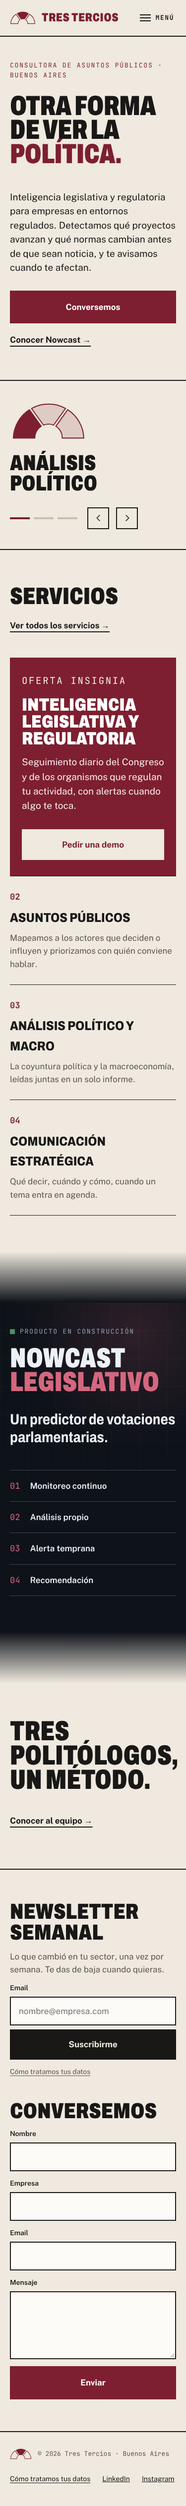
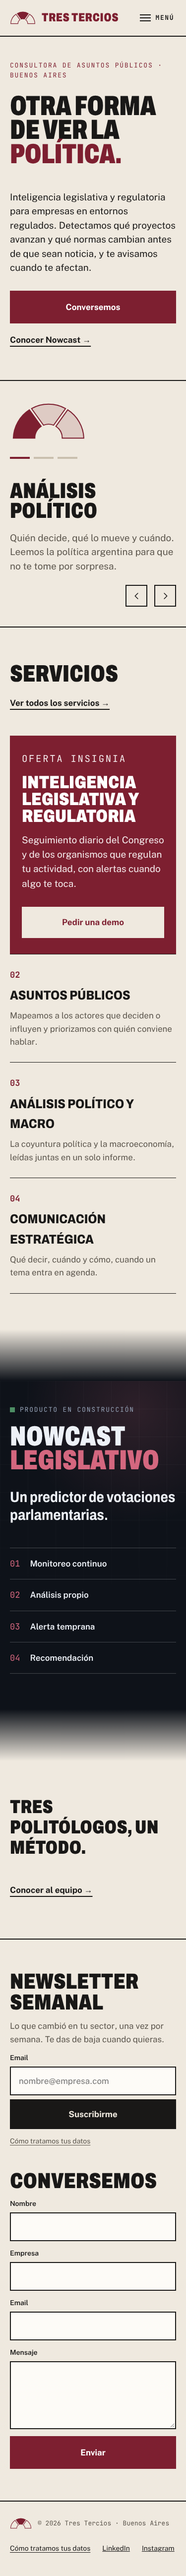
Home: puntos centrados bajo el hemiciclo, «un método.» en bordó y Suscribirme en bordó
Claude-Session: https://claude.ai/code/session_01JqyG6VXhNUZhR4n71w7gic

Changed region(s): [[0.0, 0.0, 1.0, 0.9943], [0.7333, 0.1864, 0.7627, 0.2175]]

diff --git a/_diseno/maquetas/01-home/maqueta.html b/_diseno/maquetas/01-home/maqueta.html
@@ -573,21 +573,22 @@ header{border-bottom:2px solid var(--tinta);background:var(--arena);position:rel
 .hero-pie p{margin:0;flex:1 1 480px;max-width:640px;font-size:21px;line-height:1.5}
 .hero-acciones{display:flex;flex-wrap:wrap;gap:8px 20px;align-items:center}
 
-/* Tres tercios: el logo cambia con la flecha, solo el titular */
+/* Tres tercios: el logo cambia con la flecha; titular y una bajada corta */
 .metodo{border-top:2px solid var(--tinta);border-bottom:2px solid var(--tinta)}
 .metodo .wrap{display:flex;flex-wrap:wrap;align-items:center;gap:32px 72px;padding-block:56px}
 .metodo-logo{flex:0 0 auto;width:min(260px,40vw);color:var(--bordo)}
 .metodo-logo svg{width:100%;height:auto;display:block;transition:opacity 220ms var(--ease)}
 .metodo-cuerpo{flex:1 1 420px;min-width:0}
-.slides{position:relative;min-height:clamp(90px,11vw,150px)}
-.slide{position:absolute;inset:0;margin:0;opacity:0;transform:translateY(10px);transition:opacity 220ms var(--ease),transform 220ms var(--ease);pointer-events:none;display:flex;align-items:center}
+.slides{display:grid}
+.slide{grid-area:1/1;opacity:0;transform:translateY(10px);transition:opacity 220ms var(--ease),transform 220ms var(--ease);pointer-events:none}
 .slide[data-on="1"]{opacity:1;transform:none;pointer-events:auto}
 .slide h2{margin:0;font-family:var(--display);font-stretch:72%;font-weight:900;font-size:clamp(44px,6.6vw,96px);line-height:.92;text-transform:uppercase}
-.car-nav{display:flex;align-items:center;gap:14px;margin-top:24px}
-.dots{display:flex;gap:8px;margin-right:6px}
+.slide p{margin:20px 0 0;max-width:34em;font-size:19px;line-height:1.5;color:var(--muted)}
+.dots{display:flex;gap:8px;margin-top:16px}
 .dots button{width:40px;height:44px;border:0;padding:0;background:transparent;cursor:pointer;display:flex;align-items:center}
 .dots button::before{content:"";display:block;width:100%;height:4px;background:#C9BFAE;transition:background-color 220ms}
 .dots button[aria-selected="true"]::before{background:var(--bordo)}
+.car-flechas{display:flex;gap:14px;margin-left:auto;align-self:flex-end}
 .arrow{width:44px;height:44px;display:grid;place-items:center;border:2px solid var(--tinta);background:transparent;cursor:pointer;transition:background-color 220ms var(--ease)}
 .arrow svg{width:19px;height:19px;fill:none;stroke:var(--tinta);stroke-width:2;stroke-linecap:round;stroke-linejoin:round}
 .arrow:hover{background:var(--bordo);border-color:var(--bordo)}
@@ -630,9 +631,9 @@ header{border-bottom:2px solid var(--tinta);background:var(--arena);position:rel
 
 /* Nosotros: solo la frase y el enlace */
 #equipo{padding-block:96px}
-.frase{margin:0;font-family:var(--display);font-stretch:70%;font-weight:900;font-size:clamp(56px,9vw,136px);line-height:.88;text-transform:uppercase}
+.frase{margin:0;font-family:var(--display);font-stretch:75%;font-weight:900;font-size:clamp(38px,5.6vw,80px);line-height:1.08;letter-spacing:.005em;text-transform:uppercase;max-width:16em}
 .frase span{color:var(--bordo)}
-#equipo .link-flecha{margin-top:32px}
+#equipo .link-flecha{margin-top:40px}
 
 /* Contacto */
 .contacto{border-top:2px solid var(--tinta)}
@@ -780,18 +781,20 @@ dialog::backdrop{background:rgba(25,24,23,.55)}
 
 <section class="metodo" aria-label="Tres tercios, un método">
   <div class="wrap">
-    <div class="metodo-logo"><svg id="fan" viewBox="-4 -4 208 105.56" role="img" aria-label="Tres Tercios"><use id="fan-use" href="#fan-1"/></svg></div>
+    <div class="metodo-logo">
+      <svg id="fan" viewBox="-4 -4 208 105.56" role="img" aria-label="Tres Tercios"><use id="fan-use" href="#fan-1"/></svg>
+      <div class="dots" id="dots"></div>
+    </div>
     <div class="metodo-cuerpo" id="metodo-cuerpo">
       <div class="slides" id="slides" aria-roledescription="carrusel" aria-label="Los tres tercios del método" aria-live="polite">
-        <div class="slide" data-on="1" role="group"><h2 data-i18n="m1.h">Análisis político</h2></div>
-        <div class="slide" role="group"><h2 data-i18n="m2.h">Datos y tecnología</h2></div>
-        <div class="slide" role="group"><h2 data-i18n="m3.h">Estrategia</h2></div>
+        <div class="slide" data-on="1" role="group"><h2 data-i18n="m1.h">Análisis político</h2><p data-i18n="m1.p">Quién decide, qué lo mueve y cuándo. Leemos la política argentina para que no te tome por sorpresa.</p></div>
+        <div class="slide" role="group"><h2 data-i18n="m2.h">Datos y tecnología</h2><p data-i18n="m2.p">Tecnología propia que sigue el Congreso y la regulación todos los días, y te avisa cuando algo te toca.</p></div>
+        <div class="slide" role="group"><h2 data-i18n="m3.h">Estrategia</h2><p data-i18n="m3.p">Del dato a la decisión: qué significa para tu negocio y qué conviene hacer, con números arriba de la mesa.</p></div>
       </div>
-      <div class="car-nav">
-        <div class="dots" id="dots"></div>
-        <button class="arrow" id="prev" type="button" data-i18n-aria="car.prev" aria-label="Anterior"><svg viewBox="0 0 24 24" aria-hidden="true"><path d="M15 5 8 12l7 7"/></svg></button>
-        <button class="arrow" id="next" type="button" data-i18n-aria="car.next" aria-label="Siguiente"><svg viewBox="0 0 24 24" aria-hidden="true"><path d="M9 5l7 7-7 7"/></svg></button>
-      </div>
+    </div>
+    <div class="car-flechas">
+      <button class="arrow" id="prev" type="button" data-i18n-aria="car.prev" aria-label="Anterior"><svg viewBox="0 0 24 24" aria-hidden="true"><path d="M15 5 8 12l7 7"/></svg></button>
+      <button class="arrow" id="next" type="button" data-i18n-aria="car.next" aria-label="Siguiente"><svg viewBox="0 0 24 24" aria-hidden="true"><path d="M9 5l7 7-7 7"/></svg></button>
     </div>
   </div>
 </section>
@@ -922,6 +925,9 @@ const I18N = {
   'm1.h':{es:'Análisis político', en:'Political analysis'},
   'm2.h':{es:'Datos y tecnología', en:'Data & technology'},
   'm3.h':{es:'Estrategia', en:'Strategy'},
+  'm1.p':{es:'Quién decide, qué lo mueve y cuándo. Leemos la política argentina para que no te tome por sorpresa.', en:'Who decides, what moves them and when. We read Argentine politics so it never catches you off guard.'},
+  'm2.p':{es:'Tecnología propia que sigue el Congreso y la regulación todos los días, y te avisa cuando algo te toca.', en:'Our own technology follows Congress and regulation every day, and flags what touches you.'},
+  'm3.p':{es:'Del dato a la decisión: qué significa para tu negocio y qué conviene hacer, con números arriba de la mesa.', en:'From data to decision: what it means for your business and what to do, with the numbers on the table.'},
   'car.prev':{es:'Anterior', en:'Previous'},
   'car.next':{es:'Siguiente', en:'Next'},
   'car.ir':{es:'Ir al tercio', en:'Go to part'},

diff --git a/_diseno/maquetas/01-home/matriz-de-estilos.md b/_diseno/maquetas/01-home/matriz-de-estilos.md
@@ -30,7 +30,7 @@ Medida sobre la maqueta a 1280 px, con los estilos calculados por el navegador. 
 - Tipografía de la propuesta: Archivo (display, ancho condensado), Public Sans (texto), JetBrains Mono (antetítulos y cifras). **Desvío del libro v1.2 (§5)**: pendiente de actualizar el libro.
 - Fondo Arena `#EFE9DF` en todas las secciones; solo Nowcast va en Noche `#0E1219`, con transición de 104 px.
 - Bordó `#7D1F30` y logo oficial del libro (reducido en navegación y pie). Sin logo de fondo en la portada (descartado por el cliente).
-- Carrusel de los tres tercios: logo que se llena de a un tercio, solo el titular (como la home publicada).
+- Carrusel de los tres tercios: logo que se llena de a un tercio, titular y bajada de dos líneas; puntos bajo el logo y flechas al borde derecho.
 - Oferta insignia en bordó pleno. Botones y campos de esquina recta; filetes de tinta de 2 px.
 - Nowcast: título, frase y cuatro pasos. Nosotros: solo la frase y «Conocer al equipo →».
 - Movimiento: entrada al cargar de 800 ms en la portada; todo se apaga con `prefers-reduced-motion`.

diff --git a/_diseno/maquetas/01-home/bitacora.md b/_diseno/maquetas/01-home/bitacora.md
@@ -10,7 +10,7 @@ Resumen: Home nueva (nov 2026) sobre el HTML de propuesta de Franco, con colores
 
 ## Qué hay
 - Portada «Otra forma de ver la política», sin logo de fondo (se probó una marca de agua y el cliente la descartó).
-- Carrusel del logo con los tres tercios (solo titular), como la home publicada.
+- Carrusel del logo con los tres tercios: titular y bajada de dos líneas, puntos bajo el logo y flechas al borde derecho.
 - Servicios: oferta insignia en bordó + tres filas.
 - Nowcast sobre Noche: etiqueta, título, frase «Un predictor de votaciones parlamentarias.» y cuatro pasos.
 - Nosotros: solo «Tres politólogos, un método.» y «Conocer al equipo →».
